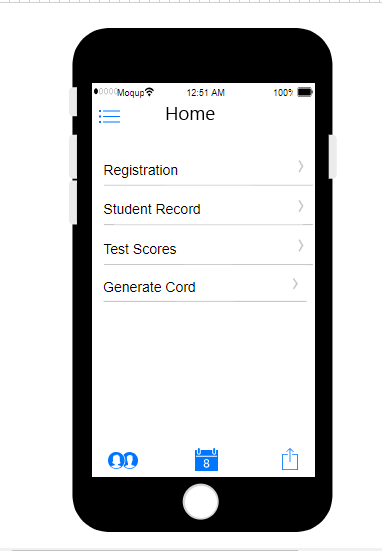
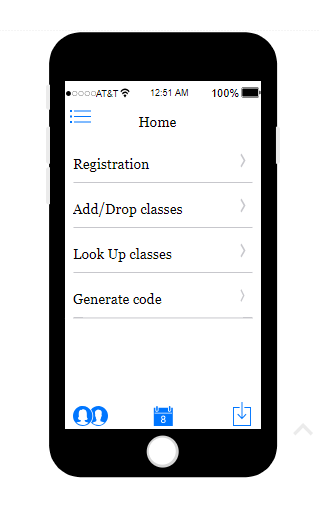
corrected mistakes in sketches and upadated in index

Changed region(s): [[0.1562, 0.0297, 0.875, 0.9802], [0.75, 0.3861, 0.7812, 0.4158], [0.75, 0.297, 0.7812, 0.3267]]

diff --git a/index.md b/index.md
@@ -112,7 +112,8 @@ This phase includes the development of:
 - ### Landing page
 ![Sketches](./Script/images/Landing.png)
 - ### Login page
-![Sketches](./Script/images/login.png)
+![Sketches](./Script/images/StudentL
+ogin.png)
 
 - For each phase, initial scope, schedule, budget (included in this document)
 - As per the schedule by the end of semester we would submit the whole requirements which requires upto $30,000.
